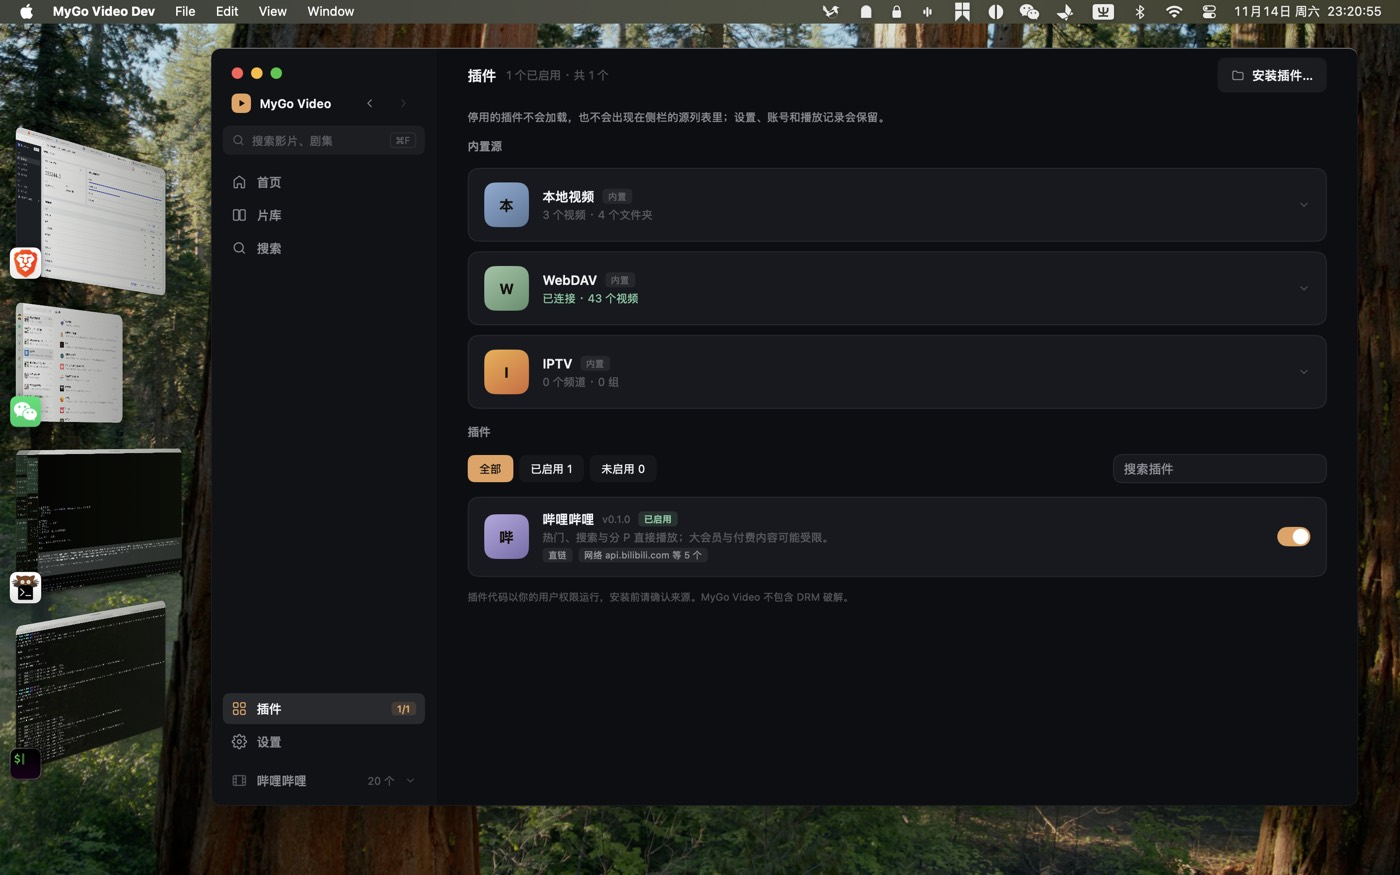
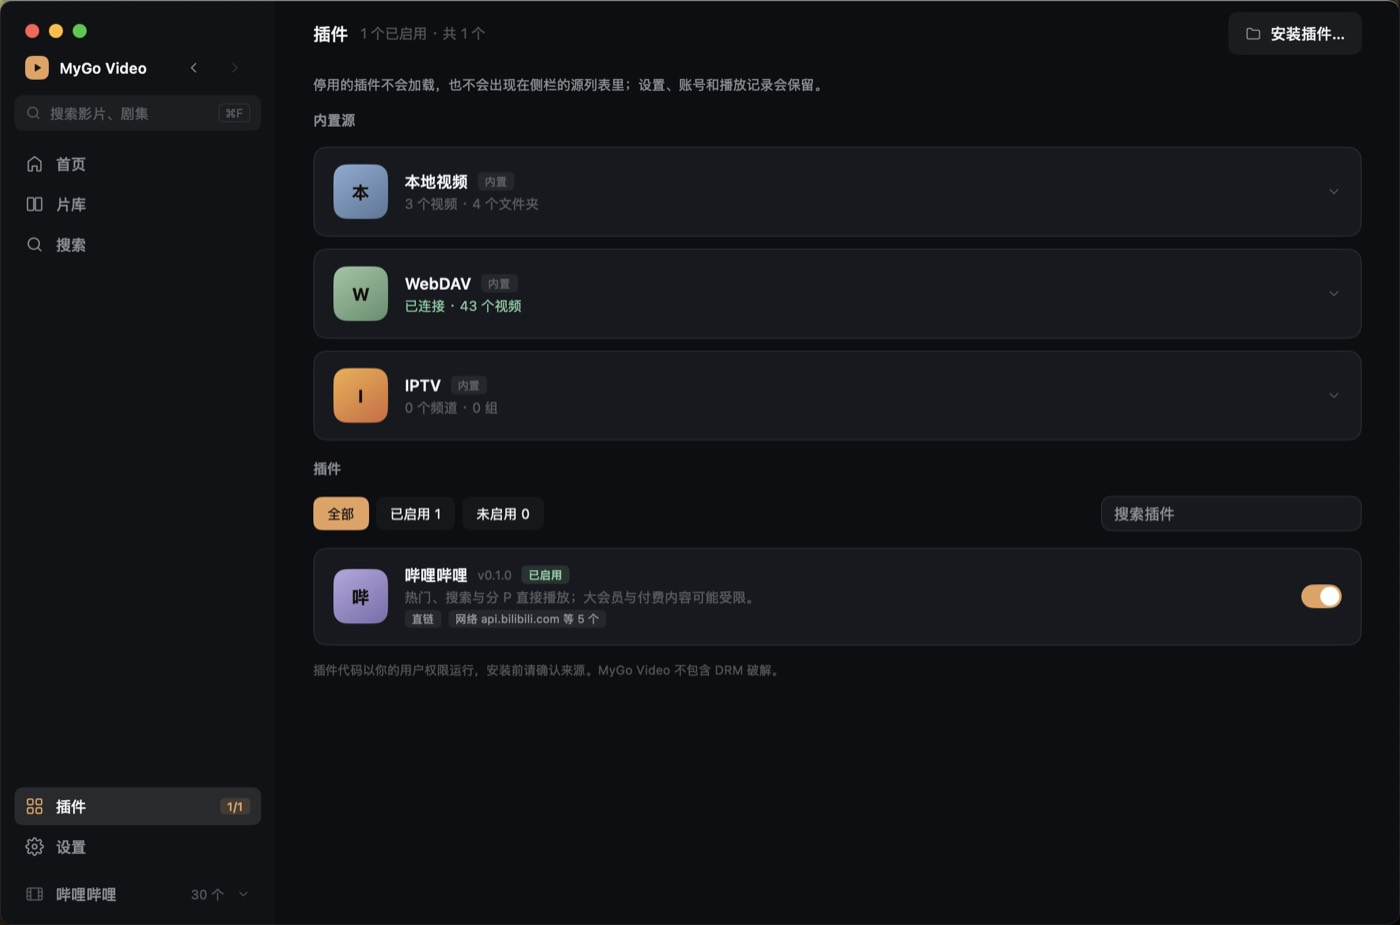
Crop the screenshots to the window
The screen captures around the window brought the desktop and other apps
with them; these show the window itself.

diff --git a/README.md b/README.md
@@ -4,7 +4,7 @@
 
 本地库、WebDAV、IPTV，以及一个能接入视频站点的插件系统——B 站插件支持热门、搜索、追番选集、收藏、历史、稍后再看、1080P DASH、弹幕，以及**直播和直播弹幕**。
 
-![首页](docs/screens/home.jpg)
+![搜索](docs/screens/search.jpg)
 
 ## 功能
 
@@ -40,12 +40,7 @@
 ## 截图
 
 <p>
-  <img src="docs/screens/player.jpg" width="49%" alt="直播播放与弹幕">
-  <img src="docs/screens/search.jpg" width="49%" alt="搜索">
-</p>
-<p>
-  <img src="docs/screens/library.jpg" width="49%" alt="片库">
-  <img src="docs/screens/settings.jpg" width="49%" alt="设置">
+  <img src="docs/screens/settings.jpg" width="70%" alt="设置与工具">
 </p>
 
 ## 安装
